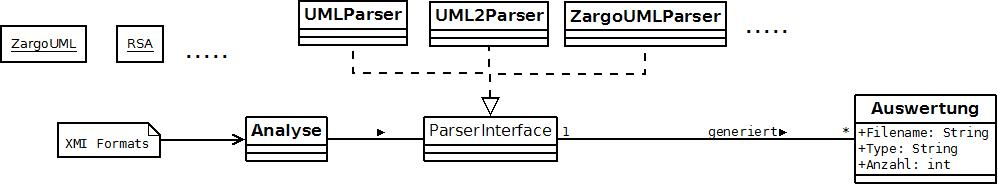
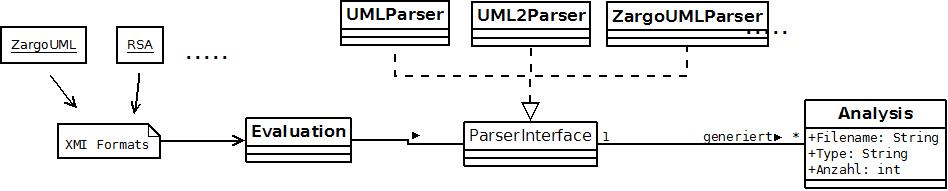
Structure changes. XMI1.2Parser implemented.

diff --git a/src/main/Evaluation.java b/src/main/Evaluation.java
@@ -3,16 +3,12 @@ package main;
 import java.io.File;
 import java.io.FileWriter;
 import java.io.IOException;
-import java.util.HashMap;
-import java.util.Set;
-import java.util.Map.Entry;
 
 import javax.xml.parsers.DocumentBuilder;
 import javax.xml.parsers.DocumentBuilderFactory;
 import javax.xml.parsers.ParserConfigurationException;
 
 import org.w3c.dom.Document;
-import org.w3c.dom.Element;
 import org.w3c.dom.Node;
 import org.w3c.dom.NodeList;
 import org.xml.sax.SAXException;
@@ -20,6 +16,7 @@ import org.xml.sax.SAXException;
 import parser.XMI1_2Parser;
 import parser.XMI2_0Parser;
 import parser.XMI2_1Parser;
+import parser.XMIParser;
 
 
 /**
@@ -34,17 +31,19 @@ public class Evaluation {
 		File f = new File("models/");
 		File[] fileArray = f.listFiles();
 
-		// File for saving the statistics for the processed models
-		File summary = new File("result/zargo-xmi.txt");
-		summary.delete();
-		summary.createNewFile();
-		FileWriter writer = new FileWriter(summary, true);
-
 		for (int i = 0; i < fileArray.length; i++) {
+
 			File file = fileArray[i];
 
 			System.out.println("******************");
 			System.out.println(file.getName());
+
+			String outputFilename = "result/output-" + file.getName();
+			File summary = new File(outputFilename.replace(outputFilename.substring(outputFilename.indexOf(".")),".txt"));
+			
+			summary.delete();
+			summary.createNewFile();
+			FileWriter writer = new FileWriter(summary, true);
 
 			DocumentBuilderFactory dbf = DocumentBuilderFactory.newInstance();
 			DocumentBuilder db = dbf.newDocumentBuilder();
@@ -55,15 +54,14 @@ public class Evaluation {
 
 			//Iterate through nodeList and search for xmi.version
 			//If found, start the parser and go to next file
-
-
 			for (int s = 0; s < nodeLst.getLength(); s++) {
+				
 				Node fstNode = nodeLst.item(s);
 
 				if(fstNode.hasAttributes() && fstNode.getAttributes().getLength() > 1) {
-					
+
 					Node xmiVersion;
-					
+
 					if(file.getName().contains("uml2") || file.getName().contains("emx") || file.getName().contains("mdxml")) {
 						xmiVersion = fstNode.getAttributes().getNamedItem("xmi:version");
 					} else {
@@ -71,27 +69,30 @@ public class Evaluation {
 					}
 
 					if(!fstNode.getNodeName().contains("meta") && xmiVersion != null) {
+						
+						XMIParser parser = null;
 						if(xmiVersion.getTextContent().equals("1.2")) {
-							XMI1_2Parser parser = new XMI1_2Parser();
-							parser.init();
+							parser = new XMI1_2Parser(nodeLst);
 						} else if (xmiVersion.getTextContent().equals("2.0")) {
-							XMI2_0Parser parser2 = new XMI2_0Parser();
-							parser2.init();
+							parser = new XMI2_0Parser(nodeLst);
 						} else if (xmiVersion.getTextContent().equals("2.1")) {
-							XMI2_1Parser parser3 = new XMI2_1Parser();
-							parser3.init();
+							parser = new XMI2_1Parser(nodeLst);
 						} else {
 							System.out.println("Unknown version! " + xmiVersion.getTextContent());
 						}
+						
+						parser.init();
+						writer.write(parser.getList().toString().replace(", ", "\n").replace("{", "").replace("}", ""));
+					
+						
 					}
 				}
-
 			}
-
+			
+			writer.flush();
+			writer.close();
+			
 		}
-		writer.flush();
-		writer.close();
-
 	}
 
 }

diff --git a/src/parser/XMI1_2Parser.java b/src/parser/XMI1_2Parser.java
@@ -1,12 +1,48 @@
 package parser;
 
-import main.ParserInterface;
+import java.util.HashMap;
 
-public class XMI1_2Parser implements ParserInterface {
+import org.w3c.dom.Node;
+import org.w3c.dom.NodeList;
+
+
+public class XMI1_2Parser extends XMIParser {
+
+	public XMI1_2Parser(NodeList nodeLst) {
+		super(nodeLst);
+	}
 
 	public void init() {
 		System.out.println("XMI Version 1.2");
+		result = new HashMap<String, Integer>();
+
+		//Parse through nodeLst
+		for (int s = 0; s < nodeLst.getLength(); s++) {
+			Node fstNode = nodeLst.item(s);
+
+			if (fstNode.getNodeType() == Node.ELEMENT_NODE) {
+				if(fstNode.getNodeName().startsWith("UML:") && !fstNode.getNodeName().contains(".")) {
+					
+					
+					
+					if (result.containsKey(fstNode.getNodeName())) {
+						result.put(fstNode.getNodeName(), result.get(fstNode.getNodeName())+1);
+					} else {
+						result.put(fstNode.getNodeName(), 1);
+					}
+				//	System.out.println(fstNode.getNodeName());
+				}
+			}
+
+		}
+		System.out.println(result.toString());
+		
+
 	}
 
-	
+	@Override
+	public HashMap<String, Integer> getList() {
+		return result;
+	}
+
 }

diff --git a/src/parser/XMI2_1Parser.java b/src/parser/XMI2_1Parser.java
@@ -1,11 +1,26 @@
 package parser;
 
-import main.ParserInterface;
+import java.util.HashMap;
 
-public class XMI2_1Parser implements ParserInterface {
+import org.w3c.dom.NodeList;
+
+
+public class XMI2_1Parser extends XMIParser {
+	
+
+	
+	public XMI2_1Parser(NodeList nodeLst) {
+		super(nodeLst);
+	}
 
 	public void init() {
 		System.out.println("XMI Version 2.1");
+		result = new HashMap<String, Integer>();
+	}
+
+	@Override
+	public HashMap<String, Integer> getList() {
+		return result;
 	}
 
 	

diff --git a/src/parser/XMI2_0Parser.java b/src/parser/XMI2_0Parser.java
@@ -1,11 +1,24 @@
 package parser;
 
-import main.ParserInterface;
+import java.util.HashMap;
 
-public class XMI2_0Parser implements ParserInterface {
+import org.w3c.dom.NodeList;
+
+
+public class XMI2_0Parser extends XMIParser {
+	
+	public XMI2_0Parser(NodeList nodeLst) {
+		super(nodeLst);
+	}
 
 	public void init() {
 		System.out.println("XMI Version 2.0");
+		result = new HashMap<String, Integer>();
+	}
+
+	@Override
+	public HashMap<String, Integer> getList() {
+		return result;
 	}
 
 	

diff --git a/src/parser/XMIParser.java b/src/parser/XMIParser.java
@@ -1,0 +1,20 @@
+package parser;
+
+import java.util.HashMap;
+
+import org.w3c.dom.NodeList;
+
+public abstract class XMIParser {
+
+	NodeList nodeLst;
+	HashMap<String, Integer> result;
+
+	public XMIParser(NodeList nodeLst) {
+		this.nodeLst = nodeLst;
+	}
+
+	public abstract void init();
+
+	public abstract Object getList();
+
+}
